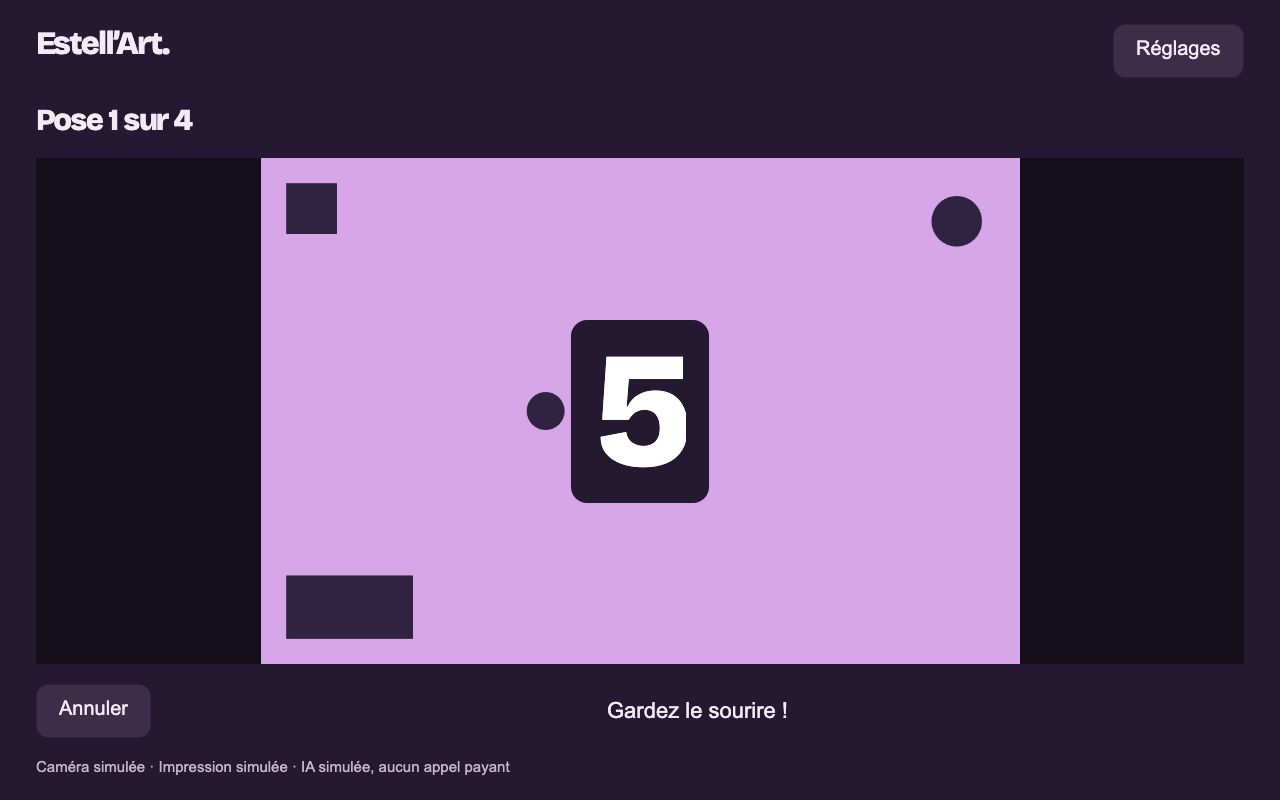
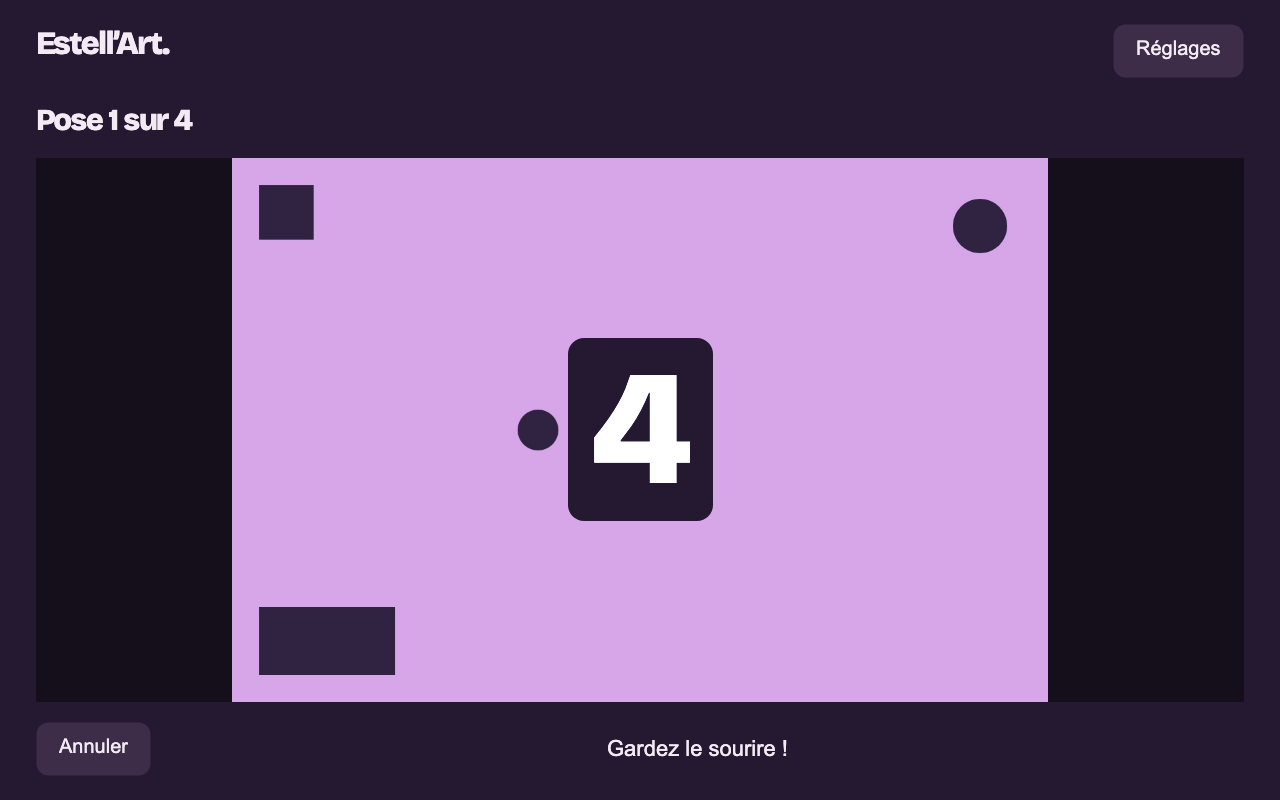
fix(ui): simplify guest labels (#11)

Changed region(s): [[0.1562, 0.1875, 0.8438, 0.9688], [0.4062, 0.375, 0.5625, 0.6562], [0.0312, 0.8438, 0.4062, 0.9688]]

diff --git a/src/PhotoBooth.App/MainWindow.cs b/src/PhotoBooth.App/MainWindow.cs
@@ -21,7 +21,6 @@ public sealed class MainWindow : Window
     private static readonly IBrush Ink = Brush.Parse("#241931"), Muted = Brush.Parse("#C7B6CD"), Lemon = Brush.Parse("#F5E764");
     private readonly ContentControl body = new()
     { Name = "SessionBody", HorizontalContentAlignment = HorizontalAlignment.Stretch, VerticalContentAlignment = VerticalAlignment.Stretch };
-    private readonly TextBlock footer = Text("Répétition · aucune caméra, aucune impression, aucun appel IA", 15);
     private TextBlock status = Text("", 22);
     private readonly SessionStore store;
     private BoothController controller;
@@ -82,18 +81,16 @@ public sealed class MainWindow : Window
         if (File.Exists(settingsPath))
         {
             try { exitGate = KioskExitGate.Restore(JsonSerializer.Deserialize<KioskExitGate.Credential>(File.ReadAllText(settingsPath))!); }
-            catch (Exception) { footer.Text = "Code de sortie illisible : configurez un nouveau code avant le plein écran."; }
+            catch (Exception) { /* A new PIN is required before entering fullscreen. */ }
         }
         controller = CreateController();
-        UpdateFooter();
         var header = new Grid { Name = "Header", ColumnDefinitions = new ColumnDefinitions("*,Auto"), Margin = new Thickness(0, 0, 0, 24) };
         header.Children.Add(Text("Estell’Art.", 32, FontWeight.Bold));
         var admin = Button("Réglages", ShowSettingsAsync); admin.Name = "Settings";
         Grid.SetColumn(admin, 1); header.Children.Add(admin);
-        var layout = new Grid { Name = "AppLayout", RowDefinitions = new RowDefinitions("Auto,*,Auto"), Margin = new Thickness(36, 24) };
+        var layout = new Grid { Name = "AppLayout", RowDefinitions = new RowDefinitions("Auto,*"), Margin = new Thickness(36, 24) };
         layout.Children.Add(header); Grid.SetRow(body, 1); layout.Children.Add(body);
-        footer.Foreground = Muted; footer.TextWrapping = TextWrapping.Wrap; footer.Margin = new Thickness(0, 20, 0, 0);
-        Grid.SetRow(footer, 2); layout.Children.Add(footer); Content = layout;
+        Content = layout;
         // Windows can clamp the requested startup size after the first layout pass.
         // Keep the grid's measured minimum tied to the actual viewport, including later resizes.
         void ConstrainLayout()
@@ -162,7 +159,7 @@ public sealed class MainWindow : Window
             ("Quatre photos", photoCount == 4, () => { photoCount = 4; RenderHome(); })));
         choices.Children.Add(Text("À votre façon", 20, FontWeight.SemiBold));
         choices.Children.Add(ChoiceRow(("Au naturel", mode == PhotoMode.Original, () => { mode = PhotoMode.Original; RenderHome(); }),
-            ("Surprise IA", mode == PhotoMode.Surprise, () => { mode = PhotoMode.Surprise; RenderHome(); })));
+            ("Surprise", mode == PhotoMode.Surprise, () => { mode = PhotoMode.Surprise; RenderHome(); })));
         var detail = Text(mode == PhotoMode.Original ? "Vos photos, telles quelles." : "Un style tiré au sort pour toute votre série.", 17);
         detail.Foreground = Muted; choices.Children.Add(detail);
         var start = Button("Démarrer", async () =>
@@ -252,13 +249,12 @@ public sealed class MainWindow : Window
         left.Children.Add(image); layout.Children.Add(left);
         var actions = new StackPanel { Spacing = 20, VerticalAlignment = VerticalAlignment.Center };
         actions.Children.Add(Text(controller.Session!.EffectiveMode == PhotoMode.Surprise ?
-            (cloud is null ? "Essai de transformation" : "Votre surprise est prête.") : "Tout simplement vous.", 30, FontWeight.SemiBold));
+            "Votre surprise est prête." : "Tout simplement vous.", 30, FontWeight.SemiBold));
         var note = Text(controller.Session.UsedOriginalFallback ? "Vous avez choisi de garder les photos originales." :
-            controller.Session.EffectiveMode == PhotoMode.Surprise && cloud is null ?
-            "En répétition, un filtre local simule le traitement. Aucune image n’a été envoyée à l’IA." : "Votre planche est enregistrée sur cet ordinateur.", 19);
+            "Votre planche est enregistrée sur cet ordinateur.", 19);
         note.Foreground = Muted; actions.Children.Add(note);
         var printState = Text("", 18);
-        var print = Button(boothSettings.PhysicalPrinting ? "Imprimer" : "Tester l’impression", async () =>
+        var print = Button("Imprimer", async () =>
         {
             if (boothSettings.PhysicalPrinting)
             {
@@ -270,7 +266,7 @@ public sealed class MainWindow : Window
             var bytes = await controller.GetPrintBytesAsync();
             var target = Path.Combine(store.Root, sessionId.ToString("N"), "print-preview.jpg");
             await SessionStore.WriteAtomicAsync(target, bytes);
-            printState.Text = "Planche vérifiée et enregistrée. Aucune feuille envoyée : mode répétition.";
+            printState.Text = "Votre planche est enregistrée.";
         }, primary: true); print.Name = "PrintPreview"; actions.Children.Add(print); actions.Children.Add(printState);
         var folder = Path.GetDirectoryName(store.Resolve(controller.Sheet.Key))!;
         var files = Button("Voir les fichiers", async () =>
@@ -316,7 +312,7 @@ public sealed class MainWindow : Window
         content.Children.Add(info);
         var canon = new CheckBox { Content = "Utiliser le Canon USB (Windows)", IsChecked = boothSettings.CanonCamera };
         var canonSdk = new CheckBox { Content = "Connexion avancée : SDK Canon officiel installé", IsChecked = boothSettings.CanonUseOfficialSdk };
-        var printing = new CheckBox { Content = "Envoyer réellement à l’imprimante", IsChecked = boothSettings.PhysicalPrinting };
+        var printing = new CheckBox { Content = "Envoyer à l’imprimante", IsChecked = boothSettings.PhysicalPrinting };
         var printers = new ComboBox { ItemsSource = WindowsPhotoPrinter.ListPrinters(), SelectedItem = boothSettings.PrinterName,
             PlaceholderText = "Choisir la DNP DS620", HorizontalAlignment = HorizontalAlignment.Stretch };
         content.Children.Add(canon); content.Children.Add(canonSdk);
@@ -325,18 +321,18 @@ public sealed class MainWindow : Window
         content.Children.Add(Button("Enregistrer le matériel", async () =>
         {
             if ((canon.IsChecked == true || printing.IsChecked == true) && !OperatingSystem.IsWindows())
-                throw new InvalidOperationException("Ces deux connexions demandent le PC Windows. La répétition fonctionne sur ce Mac.");
+                throw new InvalidOperationException("Ces deux connexions nécessitent Windows.");
             var name = printers.SelectedItem as string ?? "";
-            if (printing.IsChecked == true && name.Length == 0) throw new InvalidOperationException("Choisissez l’imprimante avant d’activer l’envoi réel.");
+            if (printing.IsChecked == true && name.Length == 0) throw new InvalidOperationException("Choisissez l’imprimante avant d’activer l’envoi.");
             sharingCancellation?.Cancel(); await controller.DisposeAsync();
             boothSettings = boothSettings with { CanonCamera = canon.IsChecked == true, CanonUseOfficialSdk = canonSdk.IsChecked == true, PhysicalPrinting = printing.IsChecked == true, PrinterName = name };
-            await boothSettings.SaveAsync(boothSettingsPath); controller = CreateController(); UpdateFooter(); RenderHome();
+            await boothSettings.SaveAsync(boothSettingsPath); controller = CreateController(); RenderHome();
             info.Text = "Réglages enregistrés. Lancez une séance pour vérifier la connexion.";
         }));
-        content.Children.Add(Button("Choisir des photos de répétition", async () =>
+        content.Children.Add(Button("Choisir des photos locales", async () =>
         {
             var picked = await StorageProvider.OpenFilePickerAsync(new FilePickerOpenOptions
-            { Title = "Photos de répétition", AllowMultiple = true, FileTypeFilter = [FilePickerFileTypes.ImageAll] });
+            { Title = "Photos locales", AllowMultiple = true, FileTypeFilter = [FilePickerFileTypes.ImageAll] });
             var paths = picked.Select(p => p.TryGetLocalPath()).Where(p => p is not null).Cast<string>().ToArray();
             if (paths.Length == 0) return;
             foreach (var path in paths)
@@ -357,14 +353,14 @@ public sealed class MainWindow : Window
             await CredentialStore.SaveAsync(credentialPath,candidate); cloudKey=candidate;
             sharingCancellation?.Cancel(); await controller.DisposeAsync();
             boothSettings=boothSettings with {CloudEnabled=true}; await boothSettings.SaveAsync(boothSettingsPath);
-            controller=CreateController(); UpdateFooter(); RenderHome(); connection.Text="";
+            controller=CreateController(); RenderHome(); connection.Text="";
             info.Text=imageReady ? "Connexion vérifiée. Une séance Surprise utilisera OpenAI en qualité xhigh et sera facturée." :
-                "Partage connecté. Ajoutez la clé OpenAI dans Supabase avant d’utiliser Surprise IA.";
+                "Partage connecté. Ajoutez la clé OpenAI dans Supabase avant d’utiliser Surprise.";
         }));
         content.Children.Add(Button("Désactiver la connexion en ligne",async()=>
         {
             sharingCancellation?.Cancel(); await controller.DisposeAsync(); boothSettings=boothSettings with {CloudEnabled=false};
-            await boothSettings.SaveAsync(boothSettingsPath);controller=CreateController();UpdateFooter();RenderHome();info.Text="Connexion en ligne désactivée. Aucun appel OpenAI payant.";
+            await boothSettings.SaveAsync(boothSettingsPath);controller=CreateController();RenderHome();info.Text="Connexion en ligne désactivée. Aucun appel OpenAI payant.";
         }));
         content.Children.Add(Text("Le mode en ligne envoie les photos vers Supabase, et vers OpenAI uniquement en mode Surprise. Les liens expirent après 7 jours.",15));
         pin.Name = "ExitPin";
@@ -407,7 +403,6 @@ public sealed class MainWindow : Window
         finally { unlockOpen = false; }
     }
     private Task SaveKioskAsync() => SessionStore.WriteAtomicAsync(settingsPath, JsonSerializer.SerializeToUtf8Bytes(exitGate!.Export()));
-    private void UpdateFooter() => footer.Text = $"{(boothSettings.CanonCamera ? "Canon USB" : "Caméra simulée")} · {(boothSettings.PhysicalPrinting ? "Impression réelle" : "Impression simulée")} · {(boothSettings.CloudEnabled ? "Partage en ligne · Surprise IA payante" : "IA simulée, aucun appel payant")}";
 
     private bool sharing;
     private async Task ShareAsync(Image qr, TextBlock label)

diff --git a/tests/PhotoBooth.App.Tests/Program.cs b/tests/PhotoBooth.App.Tests/Program.cs
@@ -72,8 +72,12 @@ Until(()=>openedFolders.Count==1,2000);
 if(openedFolders[0]!=Path.GetDirectoryName(file))throw new Exception("Unlocked folder does not match the reviewed session.");
 if (File.ReadAllText(Path.Combine(root, "kiosk.json")).Contains("381629")) throw new Exception("Plain PIN stored");
 Click("NewSession");Until(()=>Find("StartSession") is not null,2000);
+window.GetVisualDescendants().OfType<Button>().Single(b=>Equals(b.Content,"Surprise"))
+    .RaiseEvent(new RoutedEventArgs(Button.ClickEvent));
+Pump(80);Capture("surprise-choice.png");
 Click("StartSession");Until(()=>Find("TakePhotos") is {IsEnabled:true,IsVisible:true},3000);
 Click("TakePhotos");Until(()=>Find("PrintPreview") is not null,10000);
+Capture("surprise-result.png");
 Click("Settings"); Until(()=>window.OwnedWindows.Count>0,2000);
 window.OwnedWindows.Single().GetVisualDescendants().OfType<Button>().Single(b=>Equals(b.Content,"Activer le plein écran"))
     .RaiseEvent(new RoutedEventArgs(Button.ClickEvent));
@@ -128,6 +132,7 @@ void Until(Func<bool> predicate, int timeout)
 }
 void Capture(string name)
 {
+    window.InvalidateVisual(); Pump(100);
     using var frame = window.CaptureRenderedFrame() ?? throw new Exception("No rendered pixels.");
     frame.Save(Path.Combine(screenshots, name), Avalonia.Media.Imaging.PngBitmapEncoderOptions.Default);
 }

diff --git a/DESIGN.md b/DESIGN.md
@@ -134,7 +134,7 @@ A warm dark stage holds pale text and a single vivid action family. Frontmatter 
 - **Plum Surface** (`plum-surface`): secondary buttons and unselected options.
 - **Lifted Plum** (`plum-hover`): pointer feedback for secondary and selected-option buttons, with white text.
 - **Lavender White** (`lavender-white`): default text and selected-option fill.
-- **Muted Lavender** (`lavender-muted`): supporting explanations and the rehearsal footer.
+- **Muted Lavender** (`lavender-muted`): supporting explanations.
 - **Dark Stage** (`stage-dark`): the capture image’s surrounding area.
 - **Paper White** (`paper-white`): the home photo frame, countdown lettering, and translucent capture veil.
 
@@ -168,7 +168,7 @@ The recorded weights are the `FontWeight` requests in the application. The bundl
 
 All source measurements are Avalonia logical units. The frontmatter uses `px` for portable token notation, not a claim about physical display pixels.
 
-The centered desktop window requests up to 1280 × 800, with a minimum of 960 × 700. When a primary display is available, startup width and height are capped to its working area divided by display scaling, less 32 horizontal and 48 vertical logical units, while retaining that minimum. The application frame has horizontal and vertical margins given by `window-horizontal` and `window-vertical`. A header, flexible main region, and wrapped footer form three rows; header separation is 24 and the footer’s top margin is 20.
+The centered desktop window requests up to 1280 × 800, with a minimum of 960 × 700. When a primary display is available, startup width and height are capped to its working area divided by display scaling, less 32 horizontal and 48 vertical logical units, while retaining that minimum. The application frame has horizontal and vertical margins given by `window-horizontal` and `window-vertical`. A header and flexible main region form two rows; header separation is 24. The diagnostic footer is removed at Kevin’s explicit request.
 
 On opening and resizing, the root layout’s maximum width and height are recomputed from the actual client size minus those margins. Bounds checks require `Settings`, `StartSession`, and `HomeSheet` to remain inside both the client area and their containing `Header` or `SessionBody` panel. A first native capture showed “Démarrer” clipped by its panel even though a window-only check was insufficient. The native smoke resizes from 992 × 700 to 960 × 700 at scale 1. Final review of the actual Windows pixels confirmed “Démarrer”, “Réglages”, and the photo sheet fully visible at both sizes, with parent/client bounds checks passing. This closes the home-layout validation on Windows Server 2022 only; it does not validate hardware, connected QR sharing, or real AI generation.
 
@@ -232,7 +232,7 @@ The framing image stays visible during positioning and countdown. Entering Captu
 
 Positioning exposes “On est prêts !”, initially disabled until the first live-view frame has been displayed. The existing disabled opacity applies while waiting. Countdown and capture replace that action with progress and the badge. Processing changes the instruction to preparation copy. Ready displays the saved composed sheet, with wording based on actual print/cloud settings and effective photo mode. Cancelled returns to home once capture work has stopped. Failed preserves saved photos and, when all original captures exist after a Surprise failure, offers “Garder les originaux”. A generic action error uses an owned dialog.
 
-“Tester l’impression” writes a print-preview file and reports that no sheet was sent. With physical printing enabled, the action becomes “Imprimer” and reports the submitted spool job; that status is not proof of a physical print. The footer independently identifies camera, printing, and cloud modes.
+The guest choice reads “Surprise”. No simulation or rehearsal banner appears in the interface. “Imprimer” is the action label in both configurations: with physical printing disabled it writes the print-preview file and confirms “Votre planche est enregistrée.”; with physical printing enabled it reports the submitted spool job. Neither message claims that paper has physically emerged. Hardware and cloud settings remain operator choices.
 
 Cloud activation and deactivation are explicit operator actions. Activation checks the connection and distinguishes OpenAI readiness from sharing-only readiness. Deactivation reports exactly “Connexion en ligne désactivée. Aucun appel OpenAI payant.”; it does not announce that the camera or physical printer were disabled.
 
@@ -248,7 +248,7 @@ No connected QR is present in the reviewed local captures, so its appearance and
 
 - **Do** preserve native controls, owned dialogs, scrolling, file-picker, and keyboard interaction semantics, with permanent labels for code fields.
 - **Do** use the exact composed image for the result preview and keep photographic content proportionate with uniform scaling.
-- **Do** keep camera, printing, and cloud status explicit and distinguish local calibration images from real guest photography.
+- **Do** keep hardware and cloud configuration explicit in operator settings; keep simulation labels out of the guest interface as requested.
 - **Do** preserve the brief, single capture cue and the readable badge over the framing image.
 - **Do** check actual desktop sizes and containing-panel bounds when changing copy, spacing, or controls, including both sides of the home compact thresholds and 960 × 700.
 

diff --git a/.impeccable/surfaces/src-photobooth-app-mainwindow-cs.md b/.impeccable/surfaces/src-photobooth-app-mainwindow-cs.md
@@ -24,6 +24,6 @@ STORY: Choisir une ou quatre poses, originales ou surprises ; se placer ; sourir
 
 FIRST VIEWPORT: Marque en haut, titre ample et choix à gauche, planche de répétition à droite. Démarrer est la plus grande action en bas à gauche. La scène de capture remplace le contenu par une grande live view et un chiffre central ; le résultat montre le JPEG réel et les actions à sa droite. Signature : le chiffre pulse une fois par seconde sur l’image visible ; un bref voile doux marque la capture, sans stroboscope. À 1024×768, espacements réduits et texte conservé lisible.
 
-FORM: Piste de fête chromatique, candidate 4, seed 43e635c2. Les états structurent le parcours. Le mode de répétition reste explicitement affiché.
+FORM: Piste de fête chromatique, candidate 4, seed 43e635c2. Les états structurent le parcours. Kevin demande explicitement de retirer les mentions de simulation/répétition de l’interface et d’afficher « Surprise » sans suffixe IA.
 
 FINISH: unreviewed and undocumented is unfinished; this build ends with the finish review, the verdict, DESIGN.md, and every shipping raster carrying its provenance

diff --git a/PRODUCT.md b/PRODUCT.md
@@ -16,7 +16,7 @@ Estelle and the guests at her birthday on 31 October 2026. Kevin operates the bo
 
 ## Product Purpose
 
-A joyful, personal birthday photo booth. Choose 1 or 4 photos and Original or Surprise IA; live view to pose, countdown, real captures, result preview, optional one-sheet 4x6 print and QR downloads.
+A joyful, personal birthday photo booth. Choose 1 or 4 photos and Original or Surprise; live view to pose, countdown, real captures, result preview, optional one-sheet 4x6 print and QR downloads.
 
 ## Operating Context
 
@@ -40,7 +40,7 @@ Portable C# core and 26 preparation checks. No UI currently exists. Synthetic ph
 - Keep the live picture visible during the countdown.
 - Preview and print the exact same composed image.
 - Never turn an uncertain API or printer outcome into an automatic duplicate.
-- Make simulation and real operation unmistakable to the operator.
+- Keep technical operating choices in operator settings. Kevin explicitly requests no simulation/rehearsal labels in the interface; the guest option is “Surprise”.
 
 ## Open Decisions
 

diff --git a/docs/HANDOFF.md b/docs/HANDOFF.md
@@ -5,6 +5,9 @@ Mise à jour : 30 octobre 2026. Anniversaire demain. Lire [PROGRESS](PROGRESS.md
 
 ## État concret
 
+- Ajustement demandé après la revue : afficher « Surprise » et retirer les mentions de simulation
+  de l’interface. Version0.2.2 en préparation ; le comportement des appareils, de l’API et de
+  l’export d’impression reste inchangé. Les captures incluent désormais le parcours Surprise.
 - Application native Avalonia, quatre parcours 1/4 × original/IA, répétition sans matériel.
 - JPEG final réel 1800×1200 à 300 dpi, huit orientations EXIF, contrôle SHA, grille sans recadrage.
 - Adaptateurs Windows WPD/EDSDK/GDI codés ; ni Canon ni vraie DS620 testés.

diff --git a/docs/PROGRESS.md b/docs/PROGRESS.md
@@ -27,6 +27,9 @@ Les PR 3/5/6/7/8/9 contiennent désormais des screenshots ; poursuivre cette pra
 
 ## Portes de validation
 
+En préparation : version0.2.2, textes invités simplifiés (« Surprise », aucun bandeau de
+simulation), captures mises à jour. Aucun changement du traitement photo ou de l’impression.
+
 - **Mac maintenant** : UI native, séquences, images synthétiques/locales, orientation réelle,
   montage, fichiers finaux, sécurité des reprises, requêtes API simulées, packaging croisé.
 - **PC ce soir** : lancer le paquet téléchargé sans SDK, tester UI, fichiers simulés, dialogue
